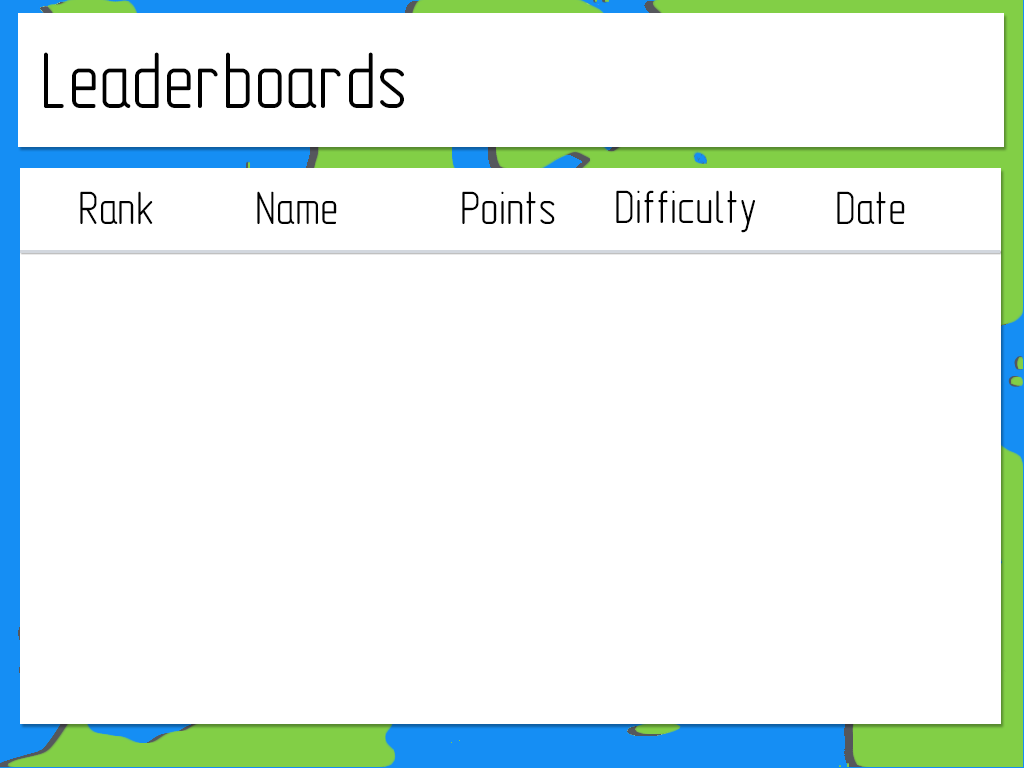
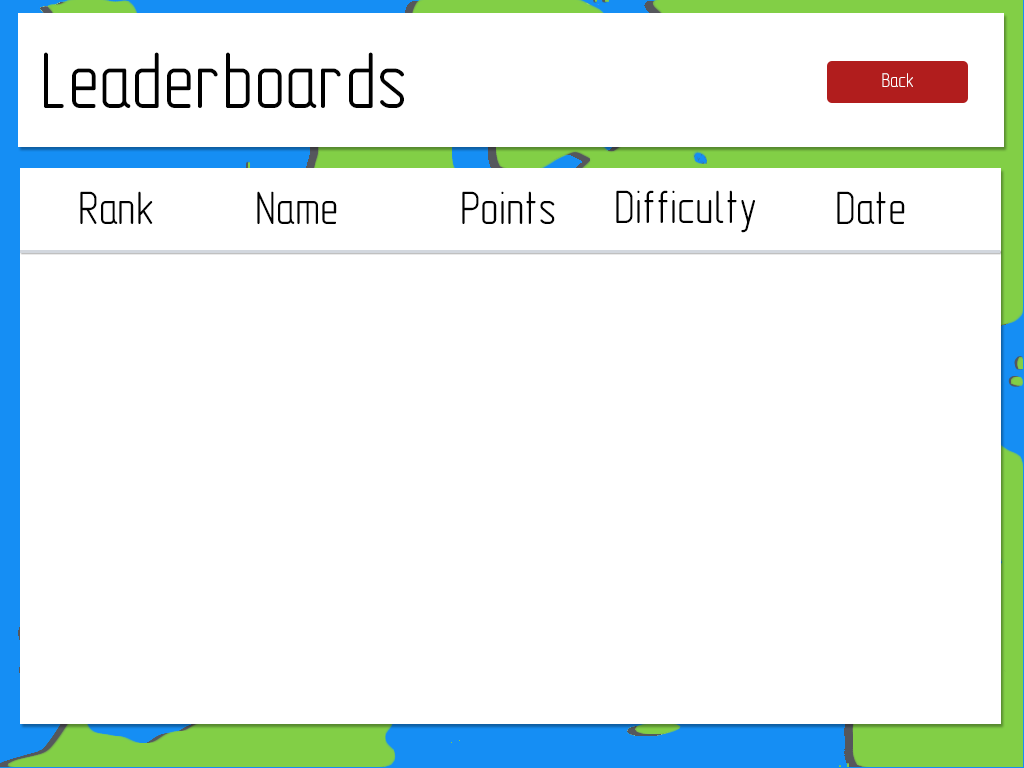
UI Tweaks
In leaderboard, new player.
Pop/Push Leaderboard from main menu
Selection of stations in shop fixed

Changed region(s): [[0.7812, 0.0625, 0.9688, 0.1562]]

diff --git a/core/src/com/turkishdelight/taxe/scenes/NewGameScene.java b/core/src/com/turkishdelight/taxe/scenes/NewGameScene.java
@@ -106,7 +106,7 @@ public class NewGameScene extends Scene   {
 		player1NameText = new EditText(this, player1LabelText, Label.genericFont(Color.GRAY, 40), Game.shopZ);
 		player1NameText.setText("Name");
 		player1NameText.setSize(200, 50);
-		player1NameText.setPosition(36, 480);
+		player1NameText.setPosition(46, 450);
 		player1NameText.setAlignment(0);
 		Add(player1NameText);
 		
@@ -291,7 +291,7 @@ public class NewGameScene extends Scene   {
 		player2NameText = new EditText(this, player2LabelText, Label.genericFont(Color.GRAY, 40), Game.shopZ);
 		player2NameText.setText("Name");
 		player2NameText.setSize(200, 50);
-		player2NameText.setPosition(550, 480);
+		player2NameText.setPosition(560, 450);
 		player2NameText.setAlignment(0);
 		Add(player2NameText);
 		
@@ -301,7 +301,7 @@ public class NewGameScene extends Scene   {
 		// Player 2 Difficulty Title
 		player2Difficulty = new Label(this, player2LabelText, Label.genericFont(Color.RED, 40));
 		player2Difficulty.setText("Difficulty");
-		player2Difficulty.setPosition(550, 390);
+		player2Difficulty.setPosition(560, 390);
 		player2Difficulty.setAlignment(0);
 		Add(player2Difficulty);
 
@@ -551,7 +551,7 @@ public class NewGameScene extends Scene   {
 		p.setName(playerNameText.getText());
 		if(currentDifficultyPlayer.getText().equals("Easy"))
 		{
-			p.setMoney(20);
+			p.setMoney(500);
 			p.setFuel(1000);
 		}
 		if(currentDifficultyPlayer.getText().equals("Medium"))

diff --git a/core/src/com/turkishdelight/taxe/scenes/LeaderboardScene.java b/core/src/com/turkishdelight/taxe/scenes/LeaderboardScene.java
@@ -26,15 +26,18 @@ public class LeaderboardScene extends Scene {
 		// ---------------------
 		
 		// Create button to return to the main menu.
-		Button mainMenuButton = new Button(this) {
+		Texture backButtonClr = new Texture("Clear_Button.png");
+		Button backButton = new Button(this) {
 			@Override
 			public void onClickEnd()
 			{
-				Game.setScene(new MainMenuScene());
+				Game.popScene();
 			}
 		};
-		mainMenuButton.setPosition(870, 660);		
-		Add(mainMenuButton);
+		backButton.setPosition(827, 656);
+		backButton.setSize(140, 50);
+		backButton.setTexture(backButtonClr);
+		Add(backButton);
 		// ---------------------
 		
 		drawScrollpane();

diff --git a/core/src/com/turkishdelight/taxe/guiobjects/EditText.java b/core/src/com/turkishdelight/taxe/guiobjects/EditText.java
@@ -1,6 +1,7 @@
 package com.turkishdelight.taxe.guiobjects;
 
 import com.badlogic.gdx.Input.Keys;
+import com.badlogic.gdx.graphics.Color;
 import com.badlogic.gdx.graphics.Texture;
 import com.badlogic.gdx.graphics.g2d.BitmapFont;
 import com.turkishdelight.taxe.Scene;
@@ -18,12 +19,15 @@ public class EditText extends LabelButton {
 	public void onClickEnd()
 	{
 		focus = true;
+		this.setFont(Label.genericFont(Color.GREEN, 40));
+		this.setText("");
 	}
 	
 	@Override
 	public boolean clickEnd(int x, int y)
 	{
 		focus = false;
+		this.setFont(Label.genericFont(Color.GRAY, 40));
 		return super.clickEnd(x, y);
 	}
 	

diff --git a/core/src/com/turkishdelight/taxe/scenes/ShopScene.java b/core/src/com/turkishdelight/taxe/scenes/ShopScene.java
@@ -340,7 +340,7 @@ public class ShopScene extends GameWindowedGUIScene {
 	public void drawUpgradeButtons(LabelButton baseButton, Train t, Player p, int upgradePrice)
 	{
 		System.out.println("Drawing " + t.getName() + " upgrade buttons");
-		int xdisplacement = 285;
+		int xdisplacement = 295;
 		int ydisplacement = 153;
 		int yjump = 50;
 		LabelButton buttonSpeed = generateUpgradeButton(baseButton.getLocalX() + xdisplacement, baseButton.getLocalY() + ydisplacement, t, 0, p, upgradePrice);

diff --git a/core/src/com/turkishdelight/taxe/scenes/SelectionScene.java b/core/src/com/turkishdelight/taxe/scenes/SelectionScene.java
@@ -89,7 +89,7 @@ public abstract class SelectionScene extends Scene {
 			};
 			labelButton.setText(element.toString());
 			labelButton.setAlignment(1);
-			labelButton.setPosition(Game.targetWindowsWidth/2, 450 - (50*i));
+			labelButton.setPosition((Game.targetWindowsWidth/2) - 105, 590 - (50*i));
 			Add(labelButton);
 			labelButtons.add(labelButton);
 			i++;

diff --git a/core/src/com/turkishdelight/taxe/scenes/GameGUIScene.java b/core/src/com/turkishdelight/taxe/scenes/GameGUIScene.java
@@ -121,7 +121,7 @@ public class GameGUIScene extends Scene{
 		Add(shopToolbarButton);
 		// ---------------------
 		
-		// Create incompletes toolbar button
+		// Create Resources toolbar button
 		Button resourcesToolbarButton = new Button(this) {
 			@Override
 			public void onClickEnd()

diff --git a/core/src/com/turkishdelight/taxe/scenes/MainMenuScene.java b/core/src/com/turkishdelight/taxe/scenes/MainMenuScene.java
@@ -51,7 +51,7 @@ public class MainMenuScene extends Scene {
 			@Override
 			public void onClickEnd()
 			{
-				Game.setScene(new LeaderboardScene());
+				Game.pushScene(new LeaderboardScene());
 				cleanup();
 			}
 		};
